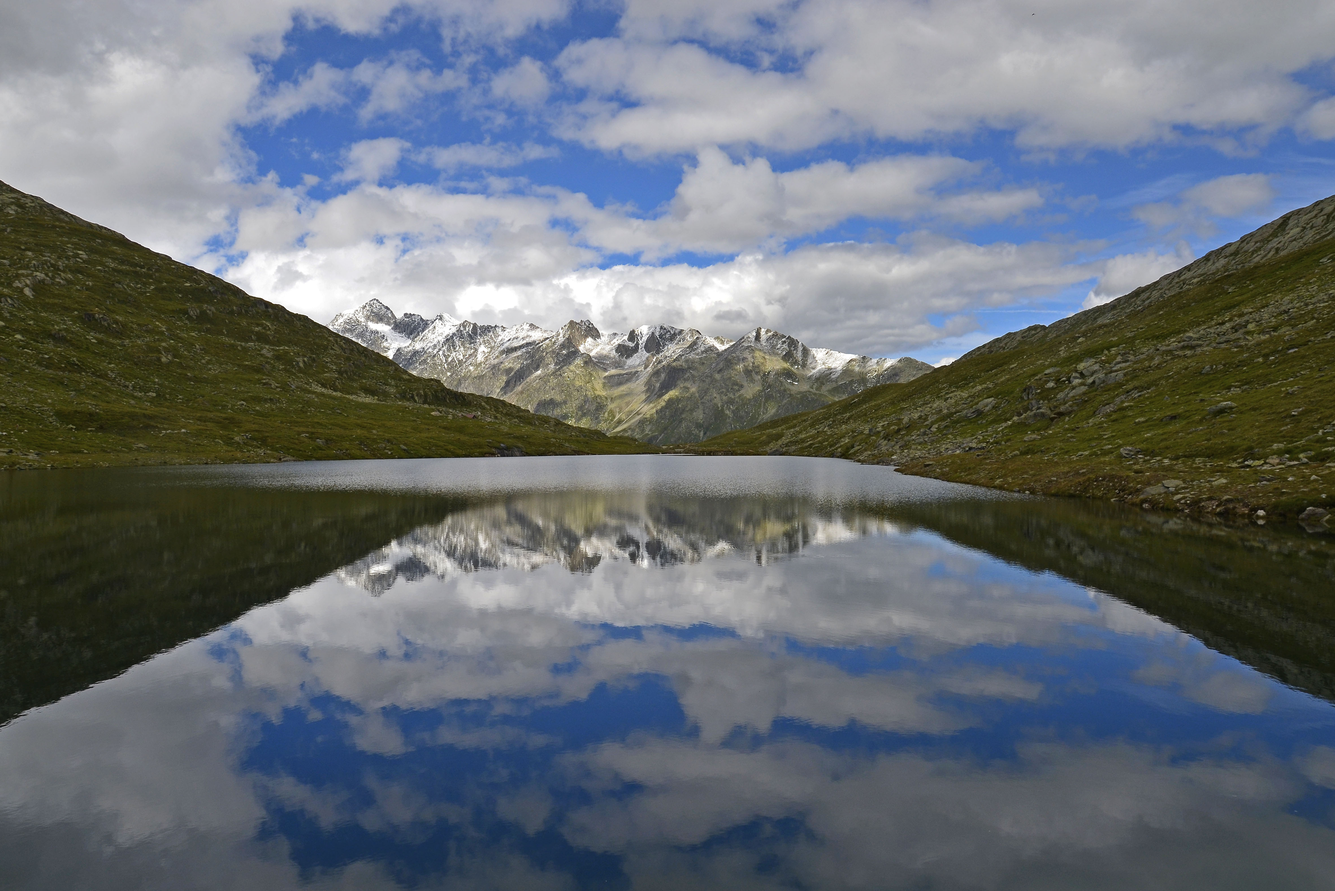
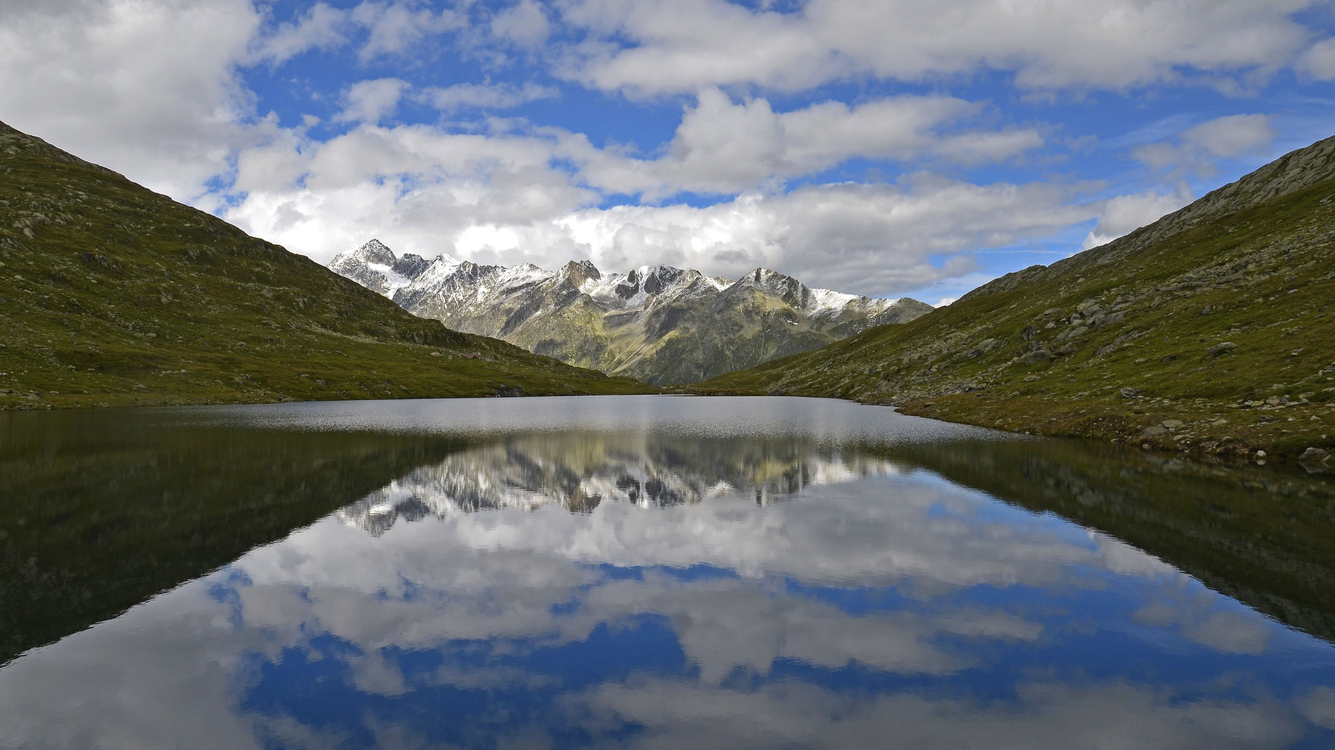
added some media query for carousel

diff --git a/public/global.css b/public/global.css
@@ -1,0 +1,19 @@
+.carousel-item{
+    max-height: 20%;
+}
+
+.slideshow{
+    transform: translateY(-20%);
+}
+
+@media screen and (min-width: 992px) {
+    .carousel-item{
+        max-height: 50%;
+    }    
+}
+
+@media screen and (min-width: 1200px) {
+    #slideshow-item{
+        transform: translateY(-50%);
+    }
+}

diff --git a/public/index.php b/public/index.php
@@ -52,15 +52,15 @@
             <div>
                 <!-- slideshow -->
                 <div id="slideshow" class="carousel slide" data-bs-ride="carousel">
-                    <div class="carousel-inner h-50">
+                    <div class="carousel-inner">
                         <div class="carousel-item active">
-                        <img src="../src/images/slideshow 1.jpg" class="d-block w-100 object-fit-cover image-fluid" alt="...">
+                        <img src="../src/images/slideshow 1.jpg" class="d-block w-100 object-fit-cover image-fluid slideshow" alt="...">
                         </div>
-                        <div class="carousel-item h-50">
-                        <img src="../src/images/slideshow 2.jpg" class="d-block w-100 object-fit-cover image-fluid translate-middle-y" alt="...">
+                        <div class="carousel-item">
+                        <img src="../src/images/slideshow 2.jpg" class="d-block w-100 object-fit-cover image-fluid slideshow" alt="...">
                         </div>
-                        <div class="carousel-item h-50">
-                        <img src="../src/images/slideshow 3.jpg" class="d-block w-100 object-fit-cover image-fluid translate-middle-y" alt="...">
+                        <div class="carousel-item">
+                        <img src="../src/images/slideshow 3.jpg" class="d-block w-100 object-fit-cover image-fluid slideshow" id="slideshow-item" alt="...">
                         </div>
                         <button class="carousel-control-prev" type="button" data-bs-target="#slideshow" data-bs-slide="prev">
                             <span class="carousel-control-prev-icon" aria-hidden="true"></span>
